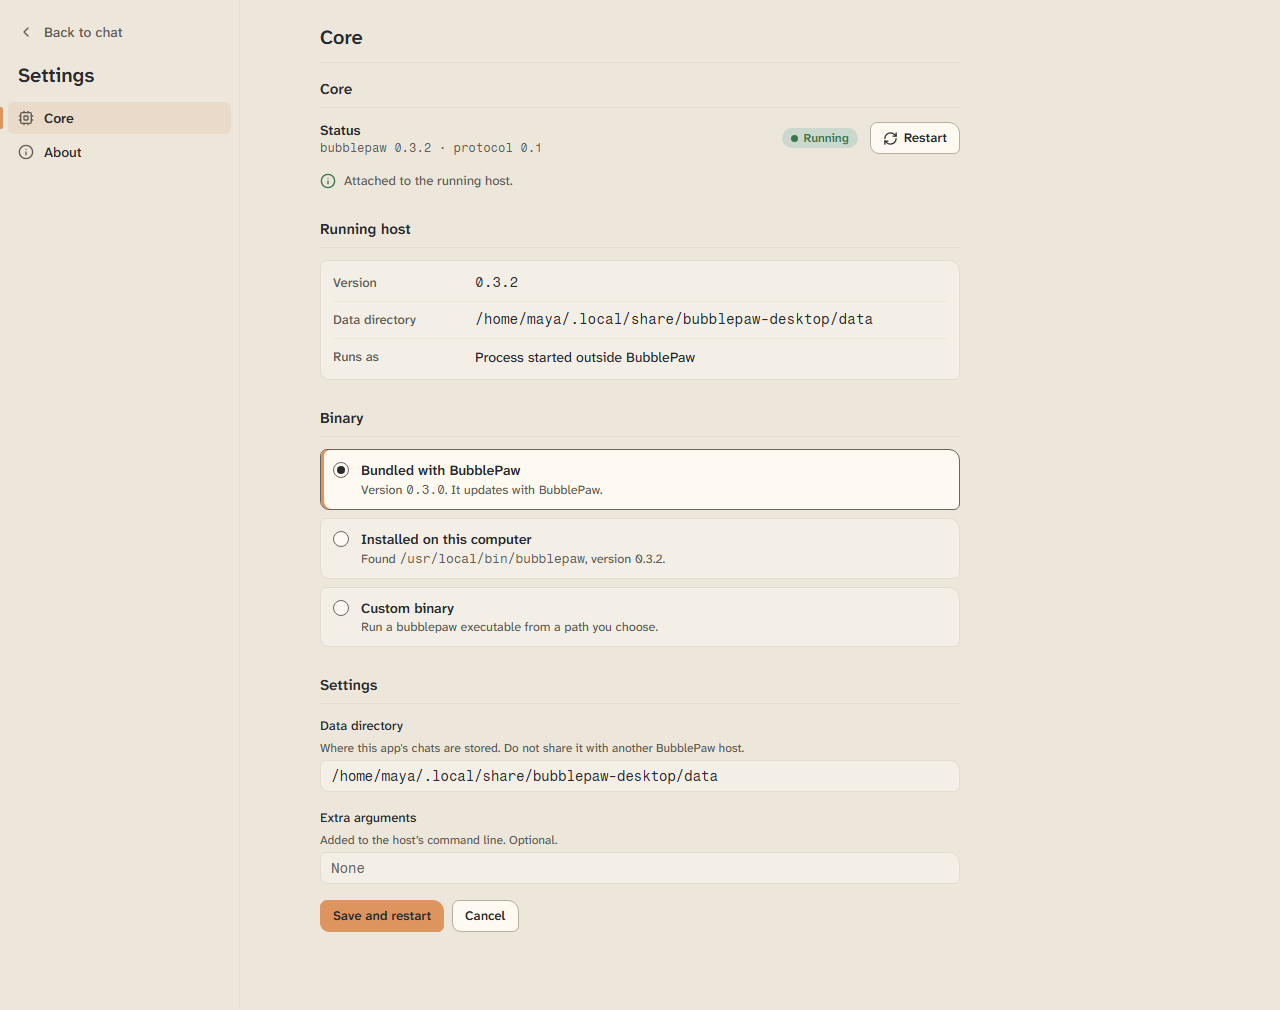
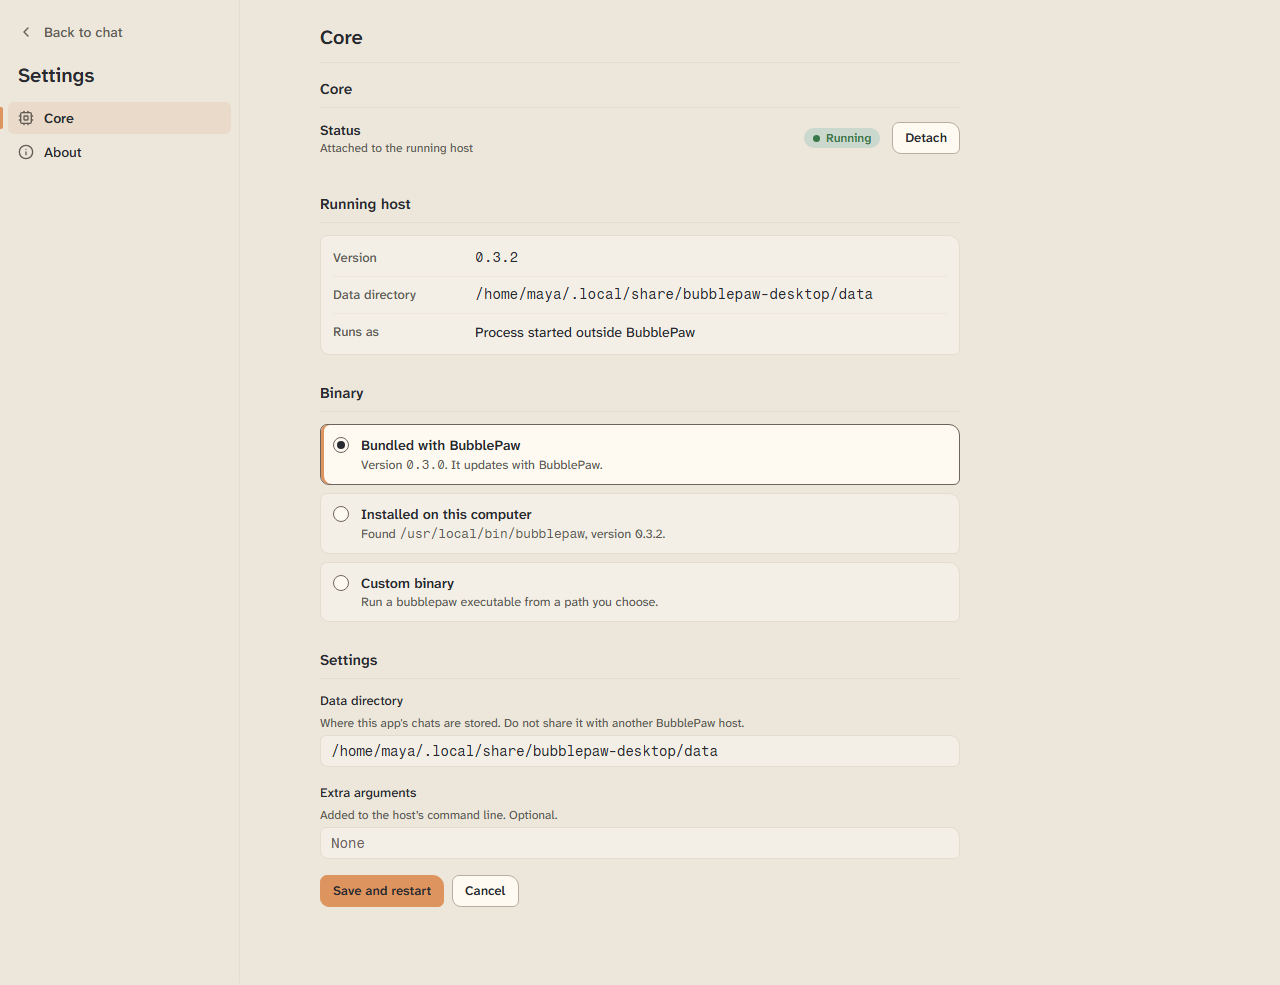
Core status row: one plain Restart, Start host or Detach button

diff --git a/design/updates-and-browser/app.js b/design/updates-and-browser/app.js
@@ -148,12 +148,12 @@
   function core() {
     const svc = M.att === 'service', att = !!M.att;
     const bad = !att && M.coreMode === 'installed' && M.det !== 'found';
-    const body = sec('Core', `<div class="rowline" style="padding-top:0"><div class="grow"><div class="t">Status</div><div class="s mono">bubblepaw ${att || M.coreMode !== 'bundled' ? CORE.installed : CORE.bundled} · protocol 0.1</div></div>${bad ? pill('Stopped', 'danger') : pill('Running', 'ok')}${btn('Restart', { icon: 'refresh-cw', disabled: bad || svc })}</div>
-        ${att ? `<div class="consequence" style="margin:4px 0 0">${ic('info', 16)}<span>Attached to the running host.${svc ? ' Managed by the system service, bubblepaw.service.' : ''}</span></div>` : ''}`) +
+    const line = att ? (svc ? 'Attached to bubblepaw.service' : 'Attached to the running host') : `bubblepaw ${M.coreMode !== 'bundled' ? CORE.installed : CORE.bundled} · protocol 0.1`;
+    const body = sec('Core', `<div class="rowline" style="padding-top:0"><div class="grow"><div class="t">Status</div><div class="s ${att ? '' : 'mono'}">${line}</div></div>${bad ? pill('Stopped', 'danger') : pill('Running', 'ok')}${att ? btn('Detach', { act: 'att', arg: '' }) : btn(bad ? 'Start host' : 'Restart', { icon: att ? '' : 'refresh-cw', act: 'noop' })}</div>`) +
       (att ? sec('Running host', `<div class="card"><div class="kv" style="grid-template-columns:130px 1fr"><span class="k">Version</span><span class="v mono">${CORE.installed}</span></div><div class="kv" style="grid-template-columns:130px 1fr"><span class="k">Data directory</span><span class="v mono">${M.f.data}</span></div><div class="kv" style="grid-template-columns:130px 1fr"><span class="k">Runs as</span><span class="v">${svc ? 'System service, bubblepaw.service' : 'Process started outside BubblePaw'}</span></div></div>`) : '') +
       binary() +
       sec('Settings', field('Data directory', "Where this app's chats are stored. Do not share it with another BubblePaw host.", 'data') + field('Extra arguments', 'Added to the host’s command line. Optional.', 'args', { ph: 'None' }) +
-        `<div class="actions">${btn('Save and restart', { kind: 'primary', act: 'save', disabled: bad || svc })}${btn('Cancel', { act: 'cancel' })}${M.saved ? `<span class="hint">${M.saved}</span>` : svc ? '<span class="hint">Managed by the system service.</span>' : bad ? '<span class="hint">Installed Core can’t be used until it is found and recent enough.</span>' : ''}</div>`);
+        `<div class="actions">${btn('Save and restart', { kind: 'primary', act: 'save', disabled: bad })}${btn('Cancel', { act: 'cancel' })}${M.saved ? `<span class="hint">${M.saved}</span>` : bad ? '<span class="hint">Installed Core can’t be used until it is found and recent enough.</span>' : ''}</div>`);
     return `<div class="set-desk"><nav class="set-nav" aria-label="Settings"><button class="nav-item back">${ic('chevron-left', 16)}Back to chat</button><h1>Settings</h1>
       <button class="nav-item" aria-current="page">${ic('cpu', 16)}Core</button><button class="nav-item" ${A('screen', 'about')}>${ic('info', 16)}About</button></nav>
       <div class="set-main"><div class="set-col"><h1 class="pt">Core</h1>${body}</div></div></div>`;
